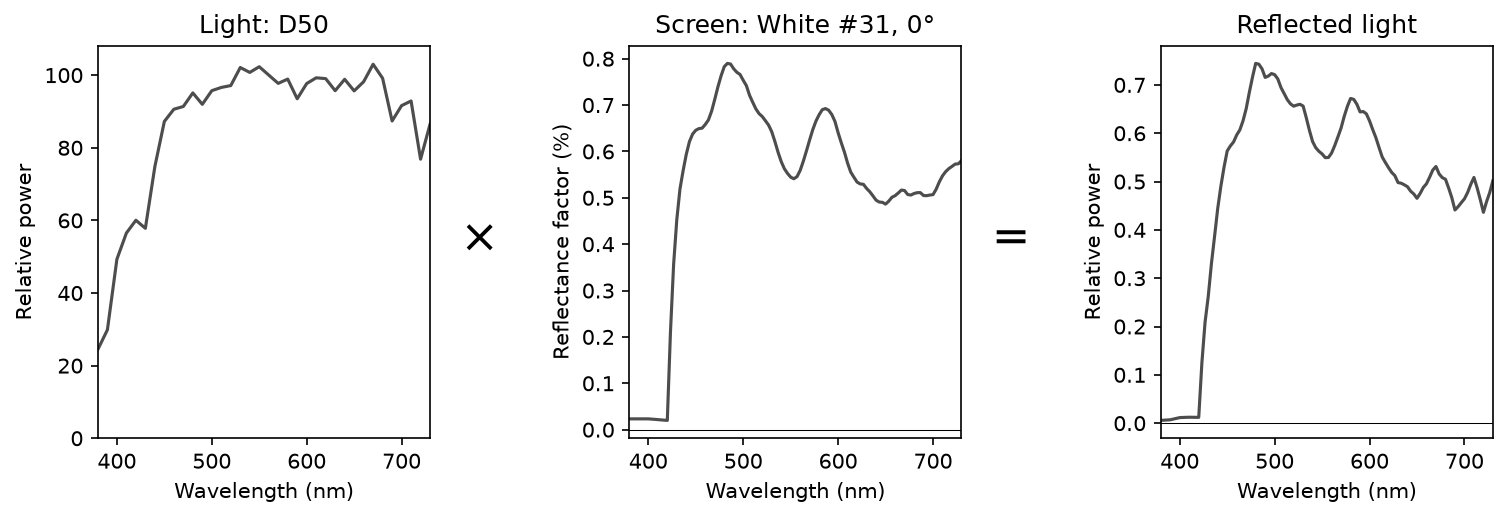
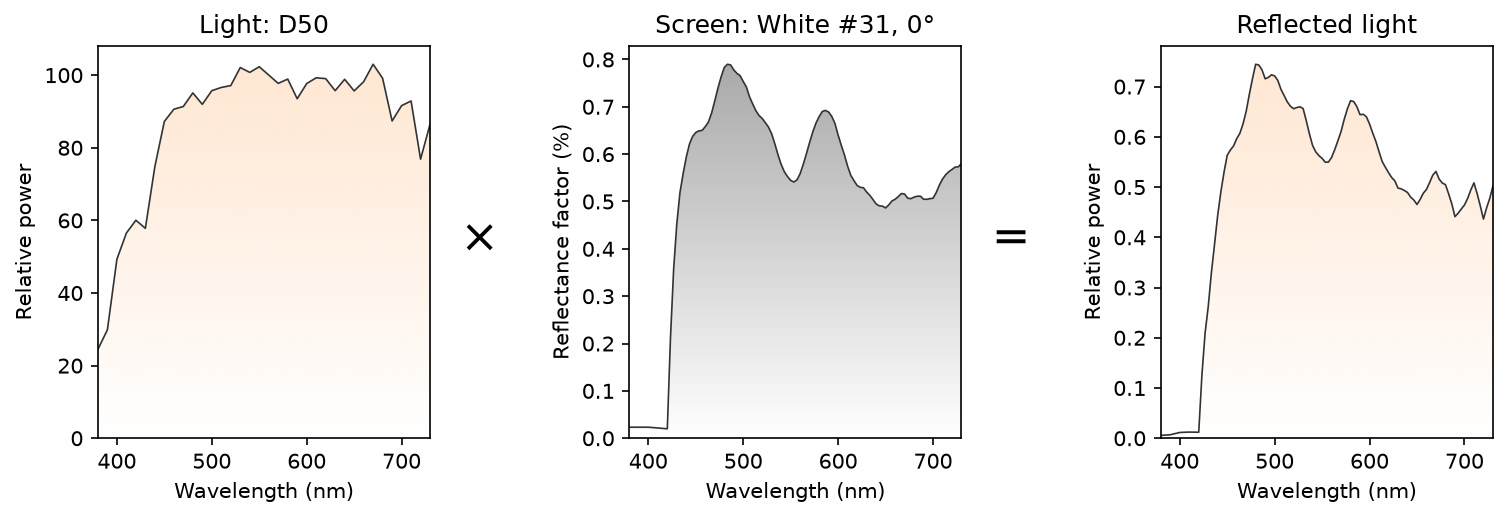
doc: spectra limits - improved introduction

diff --git a/doc/overcoming-spectrophotometer-measurement-limitations/scripts/1_spectrum_to_xyz.py b/doc/overcoming-spectrophotometer-measurement-limitations/scripts/1_spectrum_to_xyz.py
@@ -1,8 +1,9 @@
 import colour
 import matplotlib.pyplot as plt
 import numpy as np
+from matplotlib.colors import to_rgba
 
-from common import (CMFS, CUTOFF, D50, FULL, RAMPS, UNSTABLE_START, band, integrands, load, md_table, save,
+from common import (CMFS, CUTOFF, D50, FULL, RAMPS, UNSTABLE_START, band, cmfs, integrands, load, md_table, save,
                     shade_regions)
 
 wl, R = load("top")
@@ -24,31 +25,58 @@ def chain(titles):
     return fig, axes
 
 
+def gradient_under_curve(ax, values, color, wavelengths=None, label=None,
+                         linestyle="-", alpha=0.95, linewidth=0.8):
+    wavelengths = wl if wavelengths is None else wavelengths
+    lower, upper = min(0, values.min()), max(0, values.max())
+    colors = np.asarray(color)
+    if colors.ndim < 2:
+        colors = np.array([to_rgba(color)[:3]])
+    rgba = np.ones((256, len(colors), 4))
+    rgba[:, :, :3] = colors[None, :, :3]
+    rgba[:, :, 3] = (alpha * np.abs(np.linspace(lower, upper, 256))
+                     / max(abs(lower), upper, np.finfo(float).eps))[:, None]
+    xlim = ax.get_xlim()
+    area = ax.fill_between(wavelengths, values, facecolor="none", edgecolor="none")
+    image = ax.imshow(rgba, extent=(wavelengths[0], wavelengths[-1], lower, upper),
+                      origin="lower", aspect="auto", zorder=1)
+    image.set_clip_path(area.get_paths()[0], ax.transData)
+    ax.plot(wavelengths, values, color="0.2", lw=linewidth, zorder=2,
+            label=label, ls=linestyle)
+    ax.set_xlim(xlim)
+    ax.autoscale(axis="y")
+    bottom, top = ax.dataLim.intervaly
+    ax.set_ylim(min(0, bottom) * 1.05, top + 0.05 * (top - min(0, bottom)))
+
+
 r = R[0, FULL]
 reflected = np.interp(wl, D50.wavelengths, D50.values) * r / 100
 
 fig, (a, b, c) = chain(("Light: D50", f"Screen: White #{FULL}, 0°", "Reflected light"))
-a.plot(D50.wavelengths, D50.values, color="0.3")
+gradient_under_curve(a, D50.values, "#ffe6d0", wavelengths=D50.wavelengths)
 a.set(ylabel="Relative power", ylim=(0, None))
-b.plot(wl, r, color="0.3")
+gradient_under_curve(b, r, "0.65")
 b.set(ylabel="Reflectance factor (%)")
-c.plot(wl, reflected, color="0.3")
+gradient_under_curve(c, reflected, "#ffe6d0")
 c.set(ylabel="Relative power")
 for ax in (b, c):
     ax.axhline(0, color="k", lw=0.5)
 save(fig, "1a_reflected_light.png")
 
 fig, (a, b, c) = chain(("Reflected light", "Eye: CIE 1931 2° observer", "Light seen by the eye"))
-a.plot(wl, reflected, color="0.3")
+gradient_under_curve(a, reflected, "#ffe6d0")
 a.axhline(0, color="k", lw=0.5)
 a.set(ylabel="Relative power")
-for i, (name, col) in enumerate(zip(CMF_NAMES, XYZ_COLOURS)):
-    b.plot(CMFS.wavelengths, CMFS.values[:, i], color=col, label=name)
+for index, (name, color) in enumerate(zip(CMF_NAMES, XYZ_COLOURS)):
+    sensitivity = CMFS.values[:, index]
+    b.plot(CMFS.wavelengths, sensitivity, color=color, label=name, lw=0.8)
+    b.fill_between(CMFS.wavelengths, sensitivity, color=color, alpha=0.25, lw=0)
 b.set(ylabel="Sensitivity")
 b.legend(fontsize=8)
-for p, name, col in zip(integrands(wl, r), XYZ_NAMES, XYZ_COLOURS):
-    c.plot(wl, p, color=col, lw=0.8)
-    c.fill_between(wl, p, color=col, alpha=0.25, lw=0, label=f"area = {name} = {p.sum():.3f}")
+for product, name, color in zip(integrands(wl, r), XYZ_NAMES, XYZ_COLOURS):
+    c.plot(wl, product, color=color, lw=0.8)
+    c.fill_between(wl, product, color=color, alpha=0.25, lw=0,
+                   label=f"area = {name} = {product.sum():.3f}")
 c.axhline(0, color="k", lw=0.5)
 c.legend(fontsize=8)
 save(fig, "1b_light_to_xyz.png")
@@ -79,20 +107,52 @@ c, u = f"{CUTOFF:g}", f"{UNSTABLE_START:g}"
 print(f"\nShare of X, Y, Z from bands below {c} nm and above {u} nm (reading {FULL}, 0°, raw data)\n")
 print(md_table(["Ramp", f"X < {c}", f"Y < {c}", f"Z < {c}", f"X > {u}", f"Y > {u}", f"Z > {u}"], rows))
 
-rows = []
-observer = CMFS.values
-reflectances = np.vstack((R[:, FULL], np.full_like(wl, 100.0)))
-shares_by_illuminant = []
-for name in ("D50", "D55", "D65", "D75"):
+illuminants = (
+    ("D75", "North sky daylight", 7504, "#ebecff"),
+    ("A", "Incandescent", 2856, "#ffb264"),
+    ("FL2", "Cool white fluorescent", 4230, "#ffd8b0"),
+    ("LED-B5", "Cool white LED", 6598, "#fdf8ff"),
+)
+observer = cmfs(wl)
+reflected_spectra = []
+incident_spectra = []
+for name, title, temperature, color in illuminants:
     illuminant = colour.SDS_ILLUMINANTS[name].copy().interpolate(colour.SpectralShape(300, 780, 1))
     power = np.interp(wl, illuminant.wavelengths, illuminant.values)
-    shares = []
-    for channel in (0, 2):
-        product = reflectances * power * np.interp(wl, CMFS.wavelengths, observer[:, channel])
-        shares.append(100 * product[:, :i_cut].sum(-1) / product.sum(-1))
-    shares_by_illuminant.append(np.stack(shares, axis=-1))
-for name, shares in zip((*RAMPS, "Perfect reflector"), np.concatenate(shares_by_illuminant, axis=-1)):
-    rows.append([name] + [f"{value:.1f} %" for value in shares])
-print(f"\nShare of X and Z below {c} nm by illuminant (reading {FULL}, 0°, raw data)\n")
-print(md_table(["Ramp"] + [f"{name} {channel} < {c}" for name in ("D50", "D55", "D65", "D75")
-                          for channel in ("X", "Z")], rows))
+    power *= 100 / np.sum(power * observer[1])
+    incident_spectra.append(power)
+    reflected_spectra.append(power * R[0, FULL] / 100)
+incident_spectra = np.array(incident_spectra)
+reflected_spectra = np.array(reflected_spectra)
+weighted_spectra = reflected_spectra[:, None, :] * observer
+
+fig, axes = plt.subplots(2, 2, figsize=(12, 7.5), sharex=True,
+                         layout="constrained")
+for ax, incident, reflected, weighted, (name, title, temperature, color) in zip(
+      axes.flat, incident_spectra, reflected_spectra, weighted_spectra, illuminants):
+    limits = (min(0, reflected.min(), weighted.min()) * 1.1,
+          max(reflected.max(), weighted.max(), incident.max() / 100) * 1.1)
+    ax.set_facecolor("#f0f0f0")
+    ax.plot(wl, incident / 100, color="0.4", ls="--", lw=1,
+            label="Illuminant (right axis)")
+    gradient_under_curve(ax, reflected, color, label="Reflected (left axis)", linewidth=1.2)
+    for product, cmf_name, channel_color in zip(weighted, CMF_NAMES, XYZ_COLOURS):
+        ax.plot(wl, product, color=channel_color, lw=1, zorder=3,
+                label=f"Reflected × {cmf_name}")
+    ax.axvspan(wl[0], CUTOFF, color="0.5", alpha=0.08, lw=0)
+    ax.axvline(CUTOFF, color="0.4", ls=":", lw=0.8)
+    ax.axhline(0, color="k", lw=0.5)
+    ax.set(xlim=(wl[0], wl[-1]), ylim=limits,
+           title=f"{title} · {name} · {temperature} K")
+    incident_axis = ax.secondary_yaxis("right", functions=(lambda value: value * 100,
+                                                           lambda value: value / 100))
+    if ax.get_subplotspec().is_last_col():
+        incident_axis.set_ylabel("Incident power (100× left scale)")
+    if ax.get_subplotspec().is_first_col():
+        ax.set_ylabel("Reflected power (relative units)")
+    ax.text(0.02, 0.76, f"< {CUTOFF:g} nm", transform=ax.transAxes,
+            ha="left", va="top", fontsize=8, color="0.35")
+    fig.legend(*axes[0, 0].get_legend_handles_labels(), loc="lower center",
+           bbox_to_anchor=(0.5, 1.0), ncol=5, fontsize=8, frameon=False)
+fig.supxlabel("Wavelength (nm)")
+save(fig, "1_illuminants_reflected.png")

diff --git a/doc/overcoming-spectrophotometer-measurement-limitations/README.md b/doc/overcoming-spectrophotometer-measurement-limitations/README.md
@@ -113,26 +113,19 @@ Look again at Figure 1b. The peak of $\bar{z}$ (446 nm) and the small blue lobe 
 | Magenta | 2.4 % | 0.1 % | 12.6 % | 0.11 % | 0.04 % | 0.00 % |
 | Perfect reflector | 3.6 % | 0.1 % | 20.4 % | 0.11 % | 0.04 % | 0.00 % |
 
-The illuminant also matters. The shares below 440 nm increase from D50 to D75, as more of the illuminant's energy lies at short wavelengths relative to the rest of the spectrum.
-
-*Table 1a. Share of X and Z coming from bands below 440 nm under four daylight illuminants, reading 31, 0°, raw data. The perfect reflector has $R = 100\ \%$ at every wavelength. All calculations use the same 106 bands and CIE 1931 2° observer. Produced by `scripts/1_spectrum_to_xyz.py`.*
-
-| Ramp | D50 X < 440 | D50 Z < 440 | D55 X < 440 | D55 Z < 440 | D65 X < 440 | D65 Z < 440 | D75 X < 440 | D75 Z < 440 |
-|---|---:|---:|---:|---:|---:|---:|---:|---:|
-| White | 2.2 % | 11.9 % | 2.5 % | 12.5 % | 3.2 % | 13.4 % | 3.8 % | 14.1 % |
-| Red | 1.1 % | 10.1 % | 1.3 % | 10.4 % | 1.7 % | 11.0 % | 1.9 % | 11.3 % |
-| Green | 0.8 % | 5.3 % | 1.0 % | 5.5 % | 1.2 % | 5.7 % | 1.3 % | 5.9 % |
-| Blue | 2.7 % | 9.3 % | 3.1 % | 9.7 % | 3.8 % | 10.2 % | 4.3 % | 10.7 % |
-| Yellow | 1.3 % | 10.3 % | 1.5 % | 10.8 % | 2.0 % | 11.5 % | 2.3 % | 12.0 % |
-| Cyan | 2.5 % | 10.5 % | 2.9 % | 11.0 % | 3.6 % | 11.9 % | 4.1 % | 12.4 % |
-| Magenta | 2.4 % | 12.6 % | 2.8 % | 13.1 % | 3.5 % | 14.0 % | 4.1 % | 14.6 % |
-| Perfect reflector | 3.6 % | 20.4 % | 4.2 % | 21.5 % | 5.4 % | 23.1 % | 6.4 % | 24.3 % |
-
 What Table 1 tells us under D50:
 
 - **Below 440 nm matters.** For a surface that reflects evenly, one fifth of Z and 3.6 % of X come from the bands the instrument gets wrong. The measured screens show less, because the raw data are already wrong there. The perfect reflector shows what is at stake.
 - **Y is almost unaffected** (0.1 %). Brightness is safe, while chromaticity (the hue and saturation) is not.
 - **Above 700 nm does not matter** for colour. All three coordinates get at most 0.13 % from that region. The rest of the article ignores it.
+
+The illuminant also matters. Figure 2a keeps the screen fixed and changes the light: north sky daylight (D75, about 7500 K), incandescent light (A, about 2856 K), cool white fluorescent light (FL2, about 4230 K) and a cool white LED (LED-B5, about 6600 K). These standard spectra illustrate everyday lighting, not every lamp of each type.
+
+![Reflected spectra of the same screen under daylight, incandescent, fluorescent and LED lighting](img/1_illuminants_reflected.png)
+
+*Figure 2a. One panel per illuminant: incident light (dashed, right axis) and light reflected by the same brightest white (solid with shaded area, left axis; reading 31, 0°, raw data). Red, green and blue curves show reflected light multiplied by $\bar{x}$, $\bar{y}$ and $\bar{z}$ respectively, on the left-axis scale without separate normalisation. Sources are normalised to equal photometric illumination on the 106 measured bands. Each panel has its own vertical scale, so curve heights cannot be compared directly across panels. The right-axis scale is 100 times the left-axis scale so both curves are visible. Fills use the temperature swatches from [Wikipedia's standard illuminant table](https://en.wikipedia.org/wiki/Standard_illuminant#White_points_of_standard_illuminants), not the screen's perceived colour. The darker background marks bands below 440 nm. Produced by `scripts/1_spectrum_to_xyz.py`.*
+
+The unreliable wavelength range stays the same, but the illuminant can **increase or reduce the area affected** under the reflected spectrum. Incandescent light supplies little short-wavelength energy, while FL2 has a strong emission near 436 nm, inside the suspect region. LED-B5 instead concentrates much of its blue emission beyond 440 nm. The same reflectance error therefore changes the reflected light more where the illuminant is strong. The effect on XYZ also depends on the eye's sensitivity, as explained in section 1.1; these raw spectra do not establish the true missing signal or the size of the measurement error.
 
 ### 1.4 Roadmap
 

diff --git a/doc/overcoming-spectrophotometer-measurement-limitations/scripts/README.md b/doc/overcoming-spectrophotometer-measurement-limitations/scripts/README.md
@@ -99,7 +99,7 @@ Each script prints its tables and lists the figures it saved.
 |---|---|---|
 | `common.py` | – | Shared code: data loading, spectrum to XYZ (D50, CIE 1931 2°), CAM16-UCS ΔE, tables, swatches |
 | `methods.py` | 3, 5 | Cleaning, truncation, Gaussian and hold methods |
-| `1_spectrum_to_xyz.py` | 1 | `1a_reflected_light.png`, `1b_light_to_xyz.png`, `1_white_ramp.png`, share of X, Y, Z below the cutoff and above 700 nm |
+| `1_spectrum_to_xyz.py` | 1 | `1a_reflected_light.png`, `1b_light_to_xyz.png`, `1_white_ramp.png`, `1_illuminants_reflected.png`, share of X, Y, Z below the cutoff and above 700 nm |
 | `2_noise_floor.py` | 2.3 | Historical repeated-patch source counts, mean/p95/max pairwise ΔE, per-patch p95 ΔE |
 | `3_band_below_420.py` | 3 | `3_zoom_380_470.png`, negative values per region |
 | `4_band_420_440.py` | 4 | Cutoff candidates table (shares of X and Z below each cutoff), `4_drop_shape.png` |
